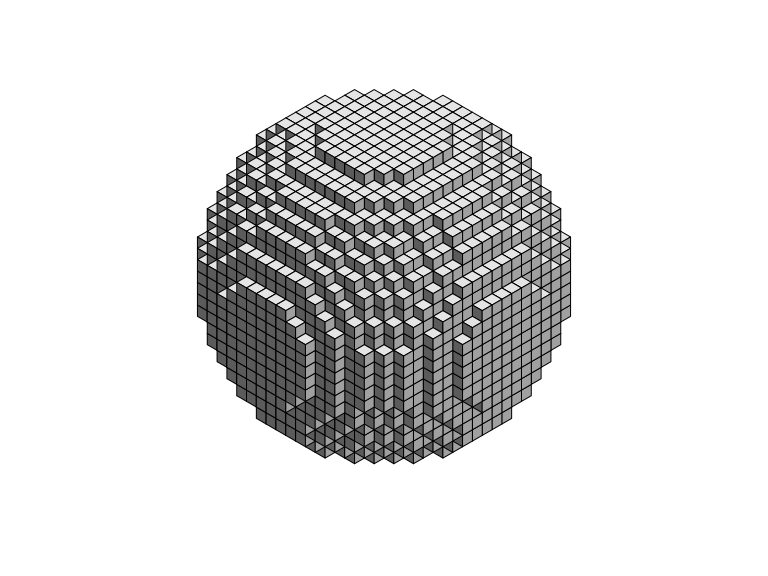
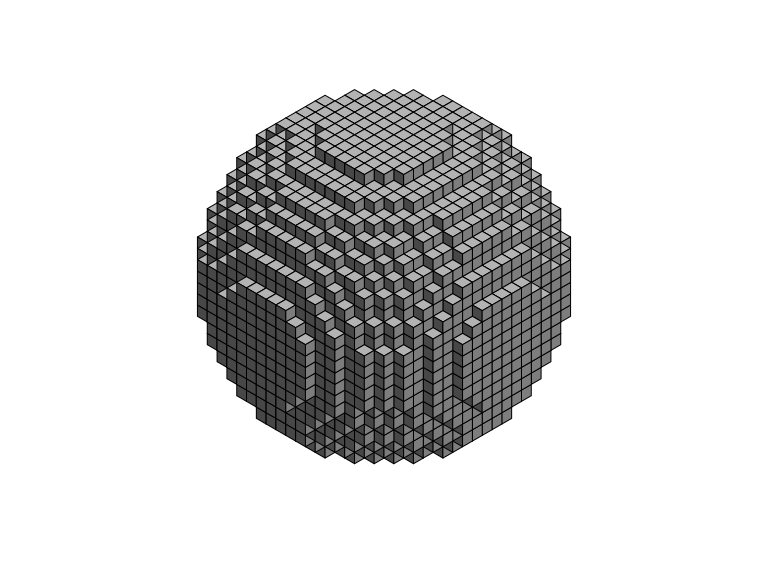
rationalise 'fill' arguments

Changed region(s): [[0.25, 0.1562, 0.75, 0.8125]]

diff --git a/README.md b/README.md
@@ -79,7 +79,9 @@ y <- c(15, 15, 15, 15, 15, 15, 15, 15, 14, 14, 14, 14, 13, 13, 13,
 9, 8, 8, 8, 8, 8, 8, 8, 8, 7, 7, 7, 7, 6, 6, 6, 6, 5, 5, 5, 5, 
 4, 4, 4, 4, 3, 3, 3, 3, 2, 2, 2, 2, 1, 1, 1, 1) - 1
 
+
 coords <- data.frame(x = x, y = y, z = 0)
+coords$fill_left <- 'red'
 cubes  <- isocubesGrob(coords, xyplane = 'right', handedness = 'left', size = 3, y = 0)
 grid.newpage(); grid.draw(cubes)
 ```
